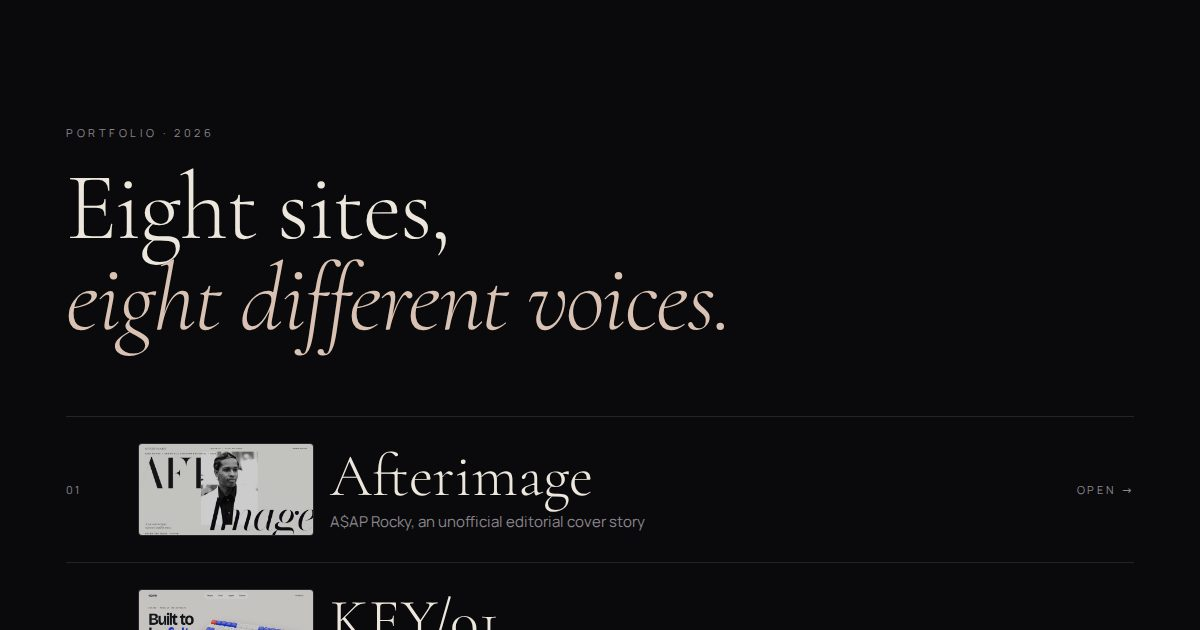
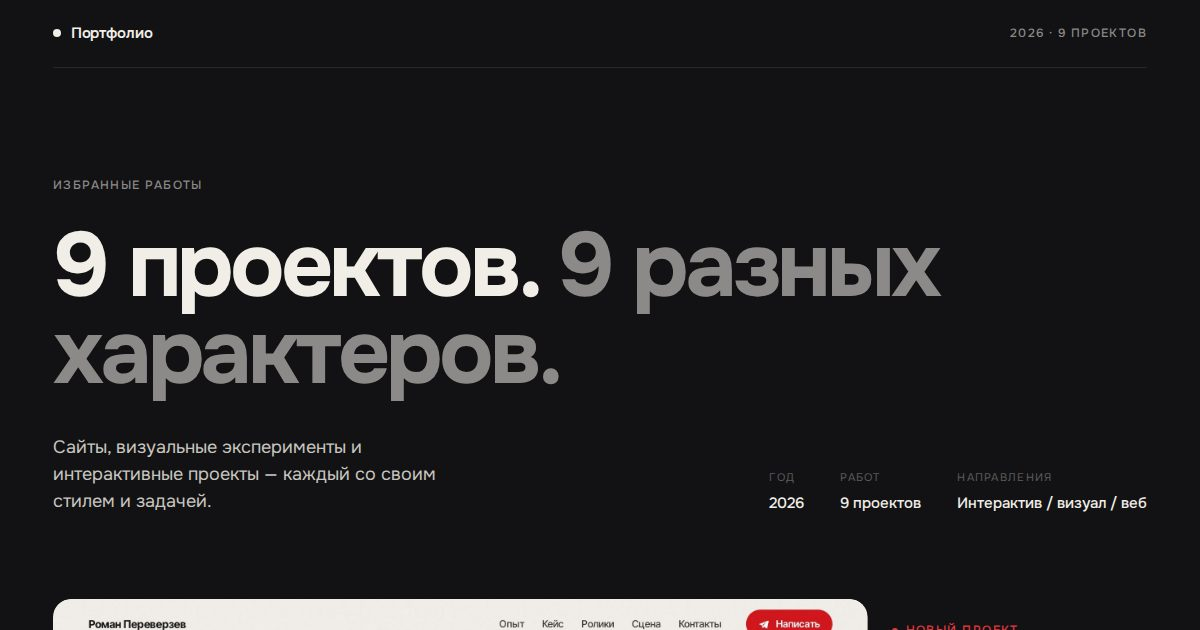
Landing: Russian redesign on Onest, Roman's site as the featured project

diff --git a/_landing/index.html b/_landing/index.html
@@ -3,11 +3,12 @@
 <head>
 <meta charset="utf-8" />
 <meta name="viewport" content="width=device-width, initial-scale=1" />
-<title>Portfolio — eight web projects</title>
-<meta name="description" content="Eight frontend projects: AFTERIMAGE, KEY/01, NOCTIS, NULL, NEXUS Card, RANKED, ROUTE, Wild Hunt." />
+<title>Избранные работы — 9 проектов</title>
+<meta name="description" content="Сайты, визуальные эксперименты и интерактивные проекты — каждый со своим стилем и задачей." />
 <meta property="og:type" content="website" />
-<meta property="og:title" content="Portfolio — eight web projects" />
-<meta property="og:description" content="Eight frontend projects: AFTERIMAGE, KEY/01, NOCTIS, NULL, NEXUS Card, RANKED, ROUTE, Wild Hunt." />
+<meta property="og:locale" content="ru_RU" />
+<meta property="og:title" content="Избранные работы — 9 проектов" />
+<meta property="og:description" content="Сайты, визуальные эксперименты и интерактивные проекты — каждый со своим стилем и задачей." />
 <meta property="og:url" content="https://serhiotyutyunnikov-a11y.github.io/WebRefs/" />
 <meta property="og:image" content="https://serhiotyutyunnikov-a11y.github.io/WebRefs/og.jpg" />
 <meta property="og:image:width" content="1200" />
@@ -16,45 +17,247 @@
 <meta name="twitter:image" content="https://serhiotyutyunnikov-a11y.github.io/WebRefs/og.jpg" />
 <link rel="preconnect" href="https://fonts.googleapis.com" />
 <link rel="preconnect" href="https://fonts.gstatic.com" crossorigin />
-<link href="https://fonts.googleapis.com/css2?family=Cormorant+Garamond:ital,wght@0,300;1,300&family=Manrope:wght@400;500&display=swap" rel="stylesheet" />
+<link href="https://fonts.googleapis.com/css2?family=Onest:wght@400;500;600;700;800&display=swap" rel="stylesheet" />
 <style>
-  :root { --bg: #0a0a0c; --text: #ece6dc; --muted: #8b868d; --line: rgba(236,230,220,.12); }
+  :root {
+    --bg: #121214; --panel: #1a1a1d; --text: #f1eee8; --muted: #8b8a88; --dim: #5c5b5a;
+    --line: rgba(241, 238, 232, .1); --ease: cubic-bezier(.16, 1, .3, 1);
+    --pad: clamp(16px, 4.4vw, 64px);
+  }
   * { box-sizing: border-box; }
-  body { margin: 0; background: var(--bg); color: var(--text); font: 400 15px/1.6 Manrope, system-ui, sans-serif; -webkit-font-smoothing: antialiased; }
-  main { max-width: 1180px; margin: 0 auto; padding: clamp(48px, 10vw, 120px) clamp(20px, 5vw, 56px) 80px; }
-  .kicker { font-size: 11px; letter-spacing: .32em; text-transform: uppercase; color: var(--muted); }
-  h1 { margin: 18px 0 0; font: 300 clamp(48px, 8vw, 112px)/.95 'Cormorant Garamond', serif; letter-spacing: -.02em; }
-  h1 em { color: #d9c2b3; }
-  ol { list-style: none; margin: 72px 0 0; padding: 0; border-top: 1px solid var(--line); }
-  a { display: grid; grid-template-columns: 56px 176px minmax(0, 1fr) auto; align-items: center; gap: 16px; padding: 26px 0; border-bottom: 1px solid var(--line); color: inherit; text-decoration: none; transition: padding .5s cubic-bezier(.16,1,.3,1); }
-  a:hover { padding-left: 14px; }
-  .pv { width: 176px; height: auto; aspect-ratio: 1200 / 630; object-fit: cover; border: 1px solid var(--line); border-radius: 4px; background: #141417; opacity: .8; transition: opacity .5s; }
-  a:hover .pv { opacity: 1; }
-  .n { font-size: 11px; letter-spacing: .2em; color: var(--muted); }
-  .t { display: grid; gap: 4px; min-width: 0; }
-  .t b { font: 300 clamp(32px, 5vw, 60px)/1 'Cormorant Garamond', serif; }
-  a:hover .t b { font-style: italic; }
-  .t span { color: var(--muted); }
-  .go { font-size: 11px; letter-spacing: .26em; text-transform: uppercase; color: var(--muted); white-space: nowrap; }
-  footer { margin-top: 56px; font-size: 12px; color: #5e5a61; }
-  @media (max-width: 600px) { a { grid-template-columns: 1fr; gap: 10px; } .pv { width: 100%; } .go { display: none; } }
+  html { -webkit-text-size-adjust: 100%; }
+  body { margin: 0; background: var(--bg); color: var(--text); font: 400 16px/1.55 Onest, system-ui, sans-serif; -webkit-font-smoothing: antialiased; overflow-x: hidden; }
+  a { color: inherit; text-decoration: none; }
+  .wrap { max-width: 1440px; margin: 0 auto; padding: 0 var(--pad); }
+  .meta { font-size: 12px; font-weight: 500; letter-spacing: .12em; text-transform: uppercase; color: var(--muted); }
+
+  /* top bar */
+  .bar { display: flex; justify-content: space-between; align-items: center; padding: 22px 0; border-bottom: 1px solid var(--line); }
+  .bar b { font-weight: 600; font-size: 15px; letter-spacing: -.01em; }
+  .bar b i { display: inline-block; width: 8px; height: 8px; margin-right: 10px; border-radius: 50%; background: var(--text); font-style: normal; vertical-align: 1px; }
+
+  /* intro */
+  .intro { padding: clamp(56px, 9vw, 128px) 0 clamp(48px, 7vw, 96px); display: grid; grid-template-columns: repeat(12, minmax(0, 1fr)); column-gap: 24px; row-gap: 28px; }
+  .intro .meta { grid-column: 1 / -1; }
+  .intro h1 { grid-column: 1 / 11; margin: 0; font-weight: 700; font-size: clamp(42px, 7.6vw, 124px); line-height: .96; letter-spacing: -.045em; }
+  .intro h1 span { color: var(--muted); }
+  .intro p { grid-column: 1 / 6; margin: 8px 0 0; font-size: clamp(17px, 1.5vw, 20px); line-height: 1.5; color: #c9c6c0; max-width: 34ch; }
+  .intro dl { grid-column: 8 / 13; align-self: end; margin: 0; display: grid; grid-template-columns: repeat(3, auto); justify-content: end; gap: 0 clamp(20px, 3vw, 44px); }
+  .intro dt { font-size: 11px; letter-spacing: .12em; text-transform: uppercase; color: var(--dim); margin-bottom: 6px; }
+  .intro dd { margin: 0; font-weight: 500; font-size: 15px; }
+
+  /* cards */
+  .card { position: relative; display: block; --a: #fff; }
+  .shot { position: relative; overflow: hidden; border-radius: 14px; background: var(--panel); aspect-ratio: 16 / 10; }
+  .shot img { position: absolute; inset: 0; width: 100%; height: 100%; object-fit: cover; transform: scale(1.001); transition: transform 1.1s var(--ease), opacity .6s; }
+  .shot::after { content: ''; position: absolute; inset: 0; border-radius: inherit; box-shadow: inset 0 0 0 1px var(--line); pointer-events: none; }
+  .card:hover .shot img { transform: scale(1.04); }
+  .info { display: grid; grid-template-columns: auto minmax(0, 1fr); gap: 4px 18px; padding-top: 20px; }
+  .num { font-size: 13px; font-weight: 500; color: var(--dim); padding-top: .35em; font-variant-numeric: tabular-nums; }
+  .info h2 { margin: 0; font-weight: 700; font-size: clamp(26px, 2.6vw, 38px); line-height: 1.05; letter-spacing: -.035em; display: flex; align-items: center; gap: 12px; }
+  .info h2::after { content: ''; width: 8px; height: 8px; border-radius: 50%; background: var(--a); opacity: 0; transform: scale(.4); transition: opacity .4s, transform .5s var(--ease); }
+  .card:hover .info h2::after { opacity: 1; transform: none; }
+  .desc { grid-column: 2; margin: 8px 0 0; color: #b4b1ab; font-size: 16px; max-width: 46ch; }
+  .tags { grid-column: 2; display: flex; flex-wrap: wrap; gap: 6px; margin: 16px 0 0; padding: 0; list-style: none; }
+  .tags li { font-size: 12px; font-weight: 500; color: var(--muted); padding: 5px 10px; border: 1px solid var(--line); border-radius: 999px; }
+  .go { grid-column: 2; justify-self: start; margin-top: 18px; display: inline-flex; align-items: center; gap: 10px; font-weight: 600; font-size: 14px; padding-bottom: 4px; background: linear-gradient(var(--a), var(--a)) 0 100% / 0 1px no-repeat; transition: background-size .6s var(--ease); }
+  .go svg { width: 16px; height: 16px; transition: transform .5s var(--ease); }
+  .card:hover .go { background-size: 100% 1px; }
+  .card:hover .go svg { transform: translate(4px, -4px); }
+  .card:focus-visible { outline: 2px solid var(--a); outline-offset: 6px; border-radius: 16px; }
+
+  /* featured */
+  .featured { display: grid; grid-template-columns: repeat(12, minmax(0, 1fr)); gap: 24px; padding-bottom: clamp(72px, 10vw, 150px); }
+  .featured .shot { grid-column: 1 / 10; aspect-ratio: 40 / 21; border-radius: 18px; }
+  .featured .info { grid-column: 10 / 13; align-self: end; grid-template-columns: 1fr; padding: 0; }
+  .featured .info > * { grid-column: 1; }
+  .featured .badge { display: inline-flex; align-items: center; gap: 8px; margin-bottom: 18px; font-size: 12px; font-weight: 500; letter-spacing: .12em; text-transform: uppercase; color: var(--a); }
+  .featured .badge::before { content: ''; width: 6px; height: 6px; border-radius: 50%; background: currentColor; }
+  .featured h2 { font-size: clamp(32px, 3.6vw, 58px); letter-spacing: -.045em; line-height: .98; }
+  .featured .num { padding: 0 0 10px; }
+
+  /* asymmetric grid */
+  .grid-head { display: flex; justify-content: space-between; align-items: baseline; padding: 0 0 28px; margin-bottom: clamp(32px, 4vw, 56px); border-bottom: 1px solid var(--line); }
+  .grid-head h3 { margin: 0; font-weight: 600; font-size: clamp(20px, 2vw, 26px); letter-spacing: -.025em; }
+  .grid { display: grid; grid-template-columns: repeat(12, minmax(0, 1fr)); column-gap: 24px; row-gap: clamp(64px, 8vw, 120px); }
+  .grid .card:nth-child(1) { grid-column: 1 / 8; }
+  .grid .card:nth-child(1) .shot { aspect-ratio: 40 / 21; }
+  .grid .card:nth-child(2) { grid-column: 9 / 13; margin-top: clamp(80px, 14vw, 200px); }
+  .grid .card:nth-child(2) .shot, .grid .card:nth-child(3) .shot, .grid .card:nth-child(7) .shot { aspect-ratio: 4 / 5; }
+  .grid .card:nth-child(3) { grid-column: 1 / 6; margin-top: clamp(0px, 4vw, 60px); }
+  .grid .card:nth-child(4) { grid-column: 7 / 13; }
+  .grid .card:nth-child(4) .shot { aspect-ratio: 4 / 3; }
+  .grid .card:nth-child(5) { grid-column: 2 / 12; }
+  .grid .card:nth-child(5) .shot { aspect-ratio: 2 / 1; }
+  .grid .card:nth-child(6) { grid-column: 1 / 7; }
+  .grid .card:nth-child(7) { grid-column: 8 / 12; margin-top: clamp(60px, 10vw, 160px); }
+  .grid .card:nth-child(8) { grid-column: 3 / 11; }
+
+  /* cta */
+  .cta { margin-top: clamp(110px, 14vw, 200px); padding: clamp(56px, 8vw, 110px) 0 clamp(40px, 5vw, 64px); border-top: 1px solid var(--line); display: grid; grid-template-columns: repeat(12, minmax(0, 1fr)); gap: 32px 24px; }
+  .cta h3 { grid-column: 1 / 9; margin: 0; font-weight: 700; font-size: clamp(36px, 5.6vw, 88px); line-height: .98; letter-spacing: -.045em; }
+  .cta h3 span { color: var(--muted); }
+  .cta .side { grid-column: 9 / 13; align-self: end; display: grid; gap: 22px; justify-items: start; }
+  .cta .side p { margin: 0; color: #b4b1ab; }
+  .btn { display: inline-flex; align-items: center; gap: 12px; padding: 16px 24px; border-radius: 999px; background: var(--text); color: var(--bg); font-weight: 600; font-size: 15px; transition: transform .5s var(--ease), background .3s; }
+  .btn svg { width: 16px; height: 16px; transition: transform .5s var(--ease); }
+  .btn:hover { background: #fff; }
+  .btn:hover svg { transform: translate(4px, -4px); }
+  footer { display: flex; justify-content: space-between; gap: 16px; flex-wrap: wrap; padding: 28px 0 36px; border-top: 1px solid var(--line); font-size: 13px; color: var(--dim); }
+
+  /* reveal */
+  .js .rv { opacity: 0; transform: translateY(28px); transition: opacity 1s var(--ease), transform 1.2s var(--ease); }
+  .js .rv .shot { clip-path: inset(8% 0 0 0 round 14px); transition: clip-path 1.4s var(--ease); }
+  .js .rv.in { opacity: 1; transform: none; }
+  .js .rv.in .shot { clip-path: inset(0 0 0 0 round 14px); }
+  .js .featured.rv .shot { clip-path: inset(6% 0 0 0 round 18px); }
+  .js .featured.rv.in .shot { clip-path: inset(0 0 0 0 round 18px); }
+  @media (prefers-reduced-motion: reduce) {
+    .js .rv, .js .rv .shot { opacity: 1; transform: none; clip-path: none; transition: none; }
+    .shot img, .go svg, .btn svg { transition: none; }
+  }
+
+  @media (max-width: 1080px) {
+    .featured .shot { grid-column: 1 / -1; }
+    .featured .info { grid-column: 1 / 9; }
+    .intro dl { grid-column: 1 / -1; justify-content: start; }
+    .intro p { grid-column: 1 / 9; }
+    .cta h3 { grid-column: 1 / -1; }
+    .cta .side { grid-column: 1 / 9; }
+  }
+  @media (max-width: 760px) {
+    .intro, .featured, .grid, .cta { grid-template-columns: minmax(0, 1fr); }
+    .intro > *, .featured > *, .featured .info, .grid .card:nth-child(n), .cta > *, .cta .side { grid-column: 1 / -1 !important; margin-top: 0 !important; }
+    .intro h1 { font-size: clamp(38px, 11.4vw, 64px); }
+    .intro dl { grid-template-columns: repeat(3, auto); justify-content: start; }
+    .grid .card:nth-child(n) .shot { aspect-ratio: 40 / 21; }
+    .grid .card:nth-child(n) .shot img { object-position: 50% 50% !important; }
+    .featured .shot { aspect-ratio: 40 / 21; border-radius: 14px; }
+    .grid { row-gap: 64px; }
+    .info { grid-template-columns: 1fr; }
+    .info > * { grid-column: 1 !important; }
+    .num { padding: 0 0 6px; }
+    .bar .meta:last-child { display: none; }
+  }
 </style>
 </head>
 <body>
-<main>
-  <span class="kicker">Portfolio · 2026</span>
-  <h1>Eight sites,<br /><em>eight different voices.</em></h1>
-  <ol>
-    <li><a href="./afterimage/"><span class="n">01</span><img class="pv" src="./afterimage/og.jpg" alt="" loading="lazy" width="1200" height="630" /><span class="t"><b>Afterimage</b><span>A$AP Rocky, an unofficial editorial cover story</span></span><span class="go">Open →</span></a></li>
-    <li><a href="./key01/"><span class="n">02</span><img class="pv" src="./key01/og.jpg" alt="" loading="lazy" width="1200" height="630" /><span class="t"><b>KEY/01</b><span>Modular keyboard campaign — 3D, exploded view, colourways</span></span><span class="go">Open →</span></a></li>
-    <li><a href="./noctis/"><span class="n">03</span><img class="pv" src="./noctis/og.jpg" alt="" loading="lazy" width="1200" height="630" /><span class="t"><b>NOCTIS</b><span>Luxury fragrance campaign — WebGL, editorial motion</span></span><span class="go">Open →</span></a></li>
-    <li><a href="./null/"><span class="n">04</span><img class="pv" src="./null/og.jpg" alt="" loading="lazy" width="1200" height="630" /><span class="t"><b>NULL</b><span>Abstract object in five chapters — three.js</span></span><span class="go">Open →</span></a></li>
-    <li><a href="./witcher/"><span class="n">05</span><img class="pv" src="./witcher/og.jpg" alt="" loading="lazy" width="1200" height="630" /><span class="t"><b>Wild Hunt</b><span>A visual tribute to The Witcher 3</span></span><span class="go">Open →</span></a></li>
-    <li><a href="./ranked/"><span class="n">06</span><img class="pv" src="./ranked/og.jpg" alt="" loading="lazy" width="1200" height="630" /><span class="t"><b>RANKED</b><span>Gaming services store — configurators, checkout, tracking</span></span><span class="go">Open →</span></a></li>
-    <li><a href="./nexus/"><span class="n">07</span><img class="pv" src="./nexus/og.jpg" alt="" loading="lazy" width="1200" height="630" /><span class="t"><b>NEXUS Card</b><span>Spend crypto like money — virtual card product</span></span><span class="go">Open →</span></a></li>
-    <li><a href="./route/"><span class="n">08</span><img class="pv" src="./route/og.jpg" alt="" loading="lazy" width="1200" height="630" /><span class="t"><b>ROUTE</b><span>Calm parcel tracker — real map, product photos</span></span><span class="go">Open →</span></a></li>
-  </ol>
-  <footer>Frontend demos made for a portfolio. All brands, orders and payments are fictional.</footer>
-</main>
+<script>document.documentElement.classList.add('js')</script>
+<div class="wrap">
+  <header class="bar">
+    <b><i></i>Портфолио</b>
+    <span class="meta">2026 · 9 проектов</span>
+  </header>
+
+  <section class="intro">
+    <span class="meta">Избранные работы</span>
+    <h1>9 проектов. <span>9 разных характеров.</span></h1>
+    <p>Сайты, визуальные эксперименты и интерактивные проекты — каждый со своим стилем и задачей.</p>
+    <dl>
+      <div><dt>Год</dt><dd>2026</dd></div>
+      <div><dt>Работ</dt><dd>9 проектов</dd></div>
+      <div><dt>Направления</dt><dd>Интерактив / визуал / веб</dd></div>
+    </dl>
+  </section>
+
+  <a class="card featured rv" href="https://serhiotyutyunnikov-a11y.github.io/portfolio/" style="--a:#e5383f">
+    <div class="shot"><img src="./previews/roman.jpg" alt="Сайт Романа Переверзева — первый экран" width="2000" height="1050" /></div>
+    <div class="info">
+      <span class="badge">Новый проект</span>
+      <span class="num">01</span>
+      <h2>Роман Переверзев</h2>
+      <p class="desc">Персональный сайт о контенте, событиях и коммуникациях — с реальными работами, фото и контактами.</p>
+      <ul class="tags"><li>Персональный бренд</li><li>React</li><li>Лендинг</li></ul>
+      <span class="go">Открыть проект <svg viewBox="0 0 16 16" fill="none" stroke="currentColor" stroke-width="1.6"><path d="M4 12 12 4M5.5 4H12v6.5"/></svg></span>
+    </div>
+  </a>
+
+  <div class="grid-head">
+    <h3>Остальные работы</h3>
+    <span class="meta">02 — 09</span>
+  </div>
+
+  <div class="grid">
+    <a class="card rv" href="./key01/" style="--a:#3d5bff">
+      <div class="shot"><img src="./key01/og.jpg" alt="KEY/01" loading="lazy" /></div>
+      <div class="info"><span class="num">02</span><h2>KEY/01</h2>
+        <p class="desc">Яркий интерактивный showcase механической клавиатуры с 3D и анимацией.</p>
+        <ul class="tags"><li>Three.js</li><li>3D</li><li>Анимация</li></ul>
+        <span class="go">Открыть проект <svg viewBox="0 0 16 16" fill="none" stroke="currentColor" stroke-width="1.6"><path d="M4 12 12 4M5.5 4H12v6.5"/></svg></span></div>
+    </a>
+    <a class="card rv" href="./afterimage/" style="--a:#c9c9cf">
+      <div class="shot"><img src="./afterimage/og.jpg" alt="Afterimage" loading="lazy" style="object-position:30% 50%" /></div>
+      <div class="info"><span class="num">03</span><h2>Afterimage</h2>
+        <p class="desc">Экспериментальный editorial-сайт вокруг музыки, фотографии и типографики.</p>
+        <ul class="tags"><li>Editorial</li><li>Фотография</li><li>Типографика</li></ul>
+        <span class="go">Открыть проект <svg viewBox="0 0 16 16" fill="none" stroke="currentColor" stroke-width="1.6"><path d="M4 12 12 4M5.5 4H12v6.5"/></svg></span></div>
+    </a>
+    <a class="card rv" href="./noctis/" style="--a:#c8a27a">
+      <div class="shot"><img src="./noctis/og.jpg" alt="NOCTIS" loading="lazy" style="object-position:50% 50%" /></div>
+      <div class="info"><span class="num">04</span><h2>NOCTIS</h2>
+        <p class="desc">Визуальная кампания вымышленного парфюмерного бренда.</p>
+        <ul class="tags"><li>WebGL</li><li>Кампания</li><li>Моушн</li></ul>
+        <span class="go">Открыть проект <svg viewBox="0 0 16 16" fill="none" stroke="currentColor" stroke-width="1.6"><path d="M4 12 12 4M5.5 4H12v6.5"/></svg></span></div>
+    </a>
+    <a class="card rv" href="./null/" style="--a:#e9e6df">
+      <div class="shot"><img src="./null/og.jpg" alt="NULL" loading="lazy" /></div>
+      <div class="info"><span class="num">05</span><h2>NULL</h2>
+        <p class="desc">Абстрактный digital-объект и эксперимент с формой, движением и WebGL.</p>
+        <ul class="tags"><li>Three.js</li><li>Шейдеры</li><li>Эксперимент</li></ul>
+        <span class="go">Открыть проект <svg viewBox="0 0 16 16" fill="none" stroke="currentColor" stroke-width="1.6"><path d="M4 12 12 4M5.5 4H12v6.5"/></svg></span></div>
+    </a>
+    <a class="card rv" href="./witcher/" style="--a:#ff5a1f">
+      <div class="shot"><img src="./witcher/og.jpg" alt="Wild Hunt" loading="lazy" style="object-position:50% 20%" /></div>
+      <div class="info"><span class="num">06</span><h2>Wild Hunt</h2>
+        <p class="desc">Визуальный трибьют The Witcher 3.</p>
+        <ul class="tags"><li>Трибьют</li><li>Атмосфера</li><li>Два языка</li></ul>
+        <span class="go">Открыть проект <svg viewBox="0 0 16 16" fill="none" stroke="currentColor" stroke-width="1.6"><path d="M4 12 12 4M5.5 4H12v6.5"/></svg></span></div>
+    </a>
+    <a class="card rv" href="./ranked/" style="--a:#ffd447">
+      <div class="shot"><img src="./ranked/og.jpg" alt="RANKED" loading="lazy" style="object-position:0 50%" /></div>
+      <div class="info"><span class="num">07</span><h2>RANKED</h2>
+        <p class="desc">Концепт игрового сервиса с акцентом на каталоге и визуальном стиле.</p>
+        <ul class="tags"><li>E-commerce</li><li>Каталог</li><li>UI</li></ul>
+        <span class="go">Открыть проект <svg viewBox="0 0 16 16" fill="none" stroke="currentColor" stroke-width="1.6"><path d="M4 12 12 4M5.5 4H12v6.5"/></svg></span></div>
+    </a>
+    <a class="card rv" href="./nexus/" style="--a:#5b8cff">
+      <div class="shot"><img src="./nexus/og.jpg" alt="NEXUS Card" loading="lazy" style="object-position:60% 50%" /></div>
+      <div class="info"><span class="num">08</span><h2>NEXUS Card</h2>
+        <p class="desc">Продуктовый лендинг виртуальной карты для оплаты криптовалютой.</p>
+        <ul class="tags"><li>Финтех</li><li>Продукт</li><li>UI</li></ul>
+        <span class="go">Открыть проект <svg viewBox="0 0 16 16" fill="none" stroke="currentColor" stroke-width="1.6"><path d="M4 12 12 4M5.5 4H12v6.5"/></svg></span></div>
+    </a>
+    <a class="card rv" href="./route/" style="--a:#2ca07a">
+      <div class="shot"><img src="./route/og.jpg" alt="ROUTE" loading="lazy" style="object-position:0 50%" /></div>
+      <div class="info"><span class="num">09</span><h2>ROUTE</h2>
+        <p class="desc">Спокойный трекер посылок: реальная карта, фото товаров, статусы.</p>
+        <ul class="tags"><li>Сервис</li><li>Карта</li><li>Интерфейс</li></ul>
+        <span class="go">Открыть проект <svg viewBox="0 0 16 16" fill="none" stroke="currentColor" stroke-width="1.6"><path d="M4 12 12 4M5.5 4H12v6.5"/></svg></span></div>
+    </a>
+  </div>
+
+  <section class="cta rv">
+    <h3>Каждый проект — отдельный характер. <span>Код открыт.</span></h3>
+    <div class="side">
+      <p>Исходники всех работ лежат на GitHub — можно посмотреть, как всё устроено.</p>
+      <a class="btn" href="https://github.com/serhiotyutyunnikov-a11y">Все исходники на GitHub <svg viewBox="0 0 16 16" fill="none" stroke="currentColor" stroke-width="1.6"><path d="M4 12 12 4M5.5 4H12v6.5"/></svg></a>
+    </div>
+  </section>
+
+  <footer>
+    <span>© 2026 · Портфолио</span>
+    <span>Бренды, заказы и платежи в концептах вымышлены.</span>
+  </footer>
+</div>
+<script>
+  (function () {
+    var els = document.querySelectorAll('.rv');
+    if (!('IntersectionObserver' in window)) { els.forEach(function (e) { e.classList.add('in'); }); return; }
+    var io = new IntersectionObserver(function (es) {
+      es.forEach(function (e) { if (e.isIntersecting) { e.target.classList.add('in'); io.unobserve(e.target); } });
+    }, { rootMargin: '0px 0px -8% 0px', threshold: 0.08 });
+    els.forEach(function (e) { io.observe(e); });
+  })();
+</script>
 </body>
 </html>
